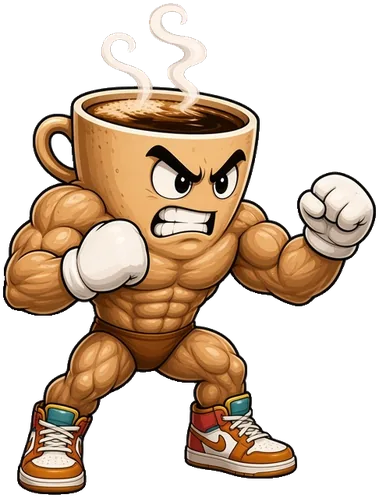
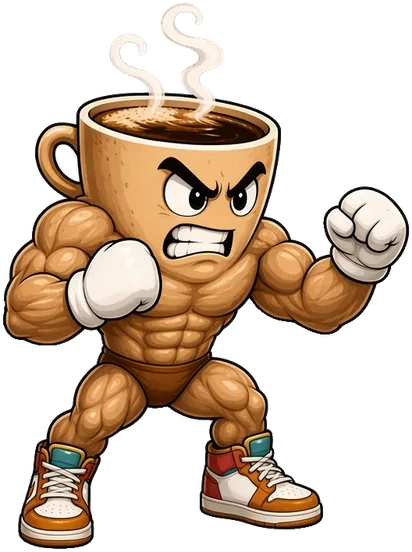
Add 6 new fighters (Flushalot, Sigma Pigeon, Rizz Frog, Spud Swole, Sir Snoozles, Sobbing Onion), 14-rung ladder, coin unlocks, speech bubbles; remove sneaker marks

diff --git a/game.js b/game.js
@@ -15,13 +15,20 @@ const FIGHTERS={
  cactus:{name:'Disco Cactus',title:'Spiky counter-puncher',pre:'Cact',suf:'isco',h:310,hp:1000,spd:390,pow:1,wt:1,jump:1200,col:'#3fcf5a',ai:'turtle',sp:{name:'NEEDLE DISCO',type:'aura'},lines:['stay prickly','disco never died','5, 6, 7, STAB']},
  banana:{name:'Banana Bandit',title:'Slippery speedster',pre:'Bana',suf:'ndit',h:300,hp:900,spd:500,pow:.95,wt:.85,jump:1300,col:'#ffe03d',ai:'aggro',sp:{name:'PEEL OUT',type:'teleport'},lines:['split happens','your wallet? mine','a-peeling, right?']},
  broc:{name:'Broccoli Beefcake',title:'Leafy tank',pre:'Brocco',suf:'beef',h:320,hp:1200,spd:340,pow:1.2,wt:1.3,jump:1050,col:'#6ae04a',ai:'turtle',sp:{name:'VITAMIN HAYMAKER',type:'haymaker'},lines:['eat your greens','never skip leg day','fiber of my being']},
+ toilet:{name:'Sir Flushalot',title:'Armored opera tank',pre:'Flush',suf:'alot',h:320,hp:1250,spd:320,pow:1.2,wt:1.45,jump:1000,col:'#9fe6ff',ai:'tank',armorH:1,sp:{name:'ROYAL FLUSH',type:'flush'},lines:['I sing, you SINK','flushed with pride','that was a royal flush','skibbity... no. ROYALTY.']},
+ pigeon:{name:'Sigma Pigeon',title:'Speedster',pre:'Pidge',suf:'ma',h:290,hp:850,spd:570,pow:.9,wt:.8,jump:1350,col:'#9a7cff',ai:'speed',sp:{name:'SIGMA GRINDSET',type:'flurry'},lines:['coo. then grind.','no breadcrumbs, no mercy','sigma rule #1: peck first','I wake up at 3am to coo']},
+ frog:{name:'Rizz Frog',title:'Lounge-singer zoner',pre:'Rizz',suf:'ribbit',h:300,hp:950,spd:380,pow:.95,wt:.95,jump:1300,col:'#7dff5a',ai:'zoner',proj:'note',sp:{name:'SMOOTH OPERATOR',type:'volley',proj:'heart',stun:1},lines:['you just got RIZZED','ribbit, baby','this next one goes out to your HP bar','unspoken rizz, spoken KO']},
+ potato:{name:'Spud Swole',title:'Grappler (command grab)',pre:'Spud',suf:'swole',h:310,hp:1150,spd:350,pow:1.15,wt:1.3,jump:1050,col:'#d9a35a',ai:'grappler',grab:1,sp:{name:'MASHED SUPLEX',type:'suplex'},lines:['you got MASHED','carbs are a lifestyle','do you even starch, bro?','tater? I hardly know her']},
+ cat:{name:'Sir Snoozles',title:'Bathtub trickster',pre:'Snooze',suf:'zles',h:270,hp:950,spd:430,pow:1,wt:1.05,jump:1150,col:'#ff9d3d',ai:'trick',sp:{name:'BUBBLE CLONES',type:'clone'},lines:['5 more minutes...','splish splash, you crash','nap time is KO time','I was asleep for that']},
+ onion:{name:'Sobbing Onion',title:'Crybaby rushdown',pre:'Sob',suf:'nion',h:285,hp:950,spd:480,pow:1.05,wt:.9,jump:1250,col:'#c9409a',ai:'aggro',sp:{name:'TEAR TSUNAMI',type:'tsunami'},lines:["I'm not crying, YOU'RE crying",'layers of PAIN','*sniff* that was for my mom','emotional damage, literally']},
  boss:{name:'The Omega Brainrot',title:'Final boss',pre:'Brain',suf:'rot',h:380,hp:1500,spd:370,pow:1.25,wt:1.6,jump:1080,col:'#c13bff',ai:'boss',proj:'orb',sp:{name:'BRAIN BLAST',type:'beam'},lines:['I AM THE FEED','scroll forever','your attention is mine'],boss:1},
 };
 const IDS=Object.keys(FIGHTERS);IDS.forEach(k=>FIGHTERS[k].id=k);
 const START=['shark','cup','duck'];
-const LADDER=['banana','duck','cactus','toaster','cup','broc','shark','boss'];
-const DIFF=[.12,.24,.34,.44,.54,.64,.76,.9];
-const RUNG_TAG=['Warm-up','Middle management','Prickly','Carb loaded','Pre-workout','Leg day','Apex snack','FINAL BOSS'];
+const LADDER=['banana','pigeon','duck','onion','cactus','frog','toaster','cat','cup','potato','broc','toilet','shark','boss'];
+const LAST=LADDER.length-1,DIFF=LADDER.map((_,i)=>+(.1+.82*i/LAST).toFixed(2));
+const RUNG_TAG=['Warm-up','Grindset','Middle management','Emotional damage','Prickly','Rizz check','Carb loaded','Nap trap','Pre-workout','Starch slam','Leg day','Throne room','Apex snack','FINAL BOSS'];
+const UNLOCK_COST=250;
 
 // ---------- ASSETS ----------
 const SPR={},META={},SIL={};let BG=null,assetsReady=false;
@@ -56,6 +63,12 @@ const SFX={
  coin(){tone('square',988,988,.06,.12);tone('square',1319,1319,.12,.12,T()+.06)},
  bell(){[0,.18,.36].forEach(d=>tone('triangle',1046,1046,.4,.3,T()+d))},
  fanfare(){const t=T();[[523,0],[659,.12],[784,.24],[1047,.36],[784,.5],[1047,.62]].forEach(([f,d])=>{tone('square',f,f,.2,.13,t+d,2500);tone('triangle',f/2,f/2,.3,.2,t+d)})},
+ flush(){noise(1.1,.8,300,0,'bandpass',1,2600);tone('sine',220,55,1,.45);setTimeout(()=>noise(.5,.6,1200,0,'highpass'),700)},
+ coo(){tone('sine',620,480,.14,.35);tone('sine',480,640,.18,.35,T()+.16);tone('sine',640,470,.2,.3,T()+.36)},
+ croon(){[392,494,587,784,740,784].forEach((f,i)=>{tone('triangle',f,f*1.01,.28,.25,T()+i*.11);tone('sine',f*2,f*2,.2,.06,T()+i*.11)})},
+ grunt(){tone('sawtooth',150,85,.3,.45,0,800);noise(.2,.5,500,0,'lowpass');tone('sawtooth',120,70,.35,.4,T()+.35,700)},
+ meow(){tone('triangle',700,1150,.14,.3);tone('triangle',1150,480,.35,.3,T()+.14);noise(.4,.2,3000,T()+.1,'highpass')},
+ sob(){[0,.24,.48].forEach(d=>tone('sawtooth',540,360,.2,.16,T()+d,1500));noise(.8,.3,2000,T()+.2,'bandpass',2,600)},
  womp(){const t=T();[294,277,262,233].forEach((f,i)=>tone('sawtooth',f,i==3?180:f*.97,i==3?.8:.32,.2,t+i*.34,900))},
 };
 function say(txt){if(S.muted||!window.speechSynthesis)return;try{speechSynthesis.cancel();const u=new SpeechSynthesisUtterance(txt);u.pitch=.6;u.rate=1.05;speechSynthesis.speak(u)}catch(e){}}
@@ -69,6 +82,7 @@ function musicTick(){if(!MUS.on||!AC)return;while(MUS.t0+MUS.n*MUS.spb/2<AC.curr
 const SAVE_KEY='brainrot_brawler_v1';
 function freshSave(){return{v:1,coins:50,unlocked:[...START],rung:0,pick:'shark',donor:null,fusions:[],bestCombo:0,wins:0,muted:false,prem:false}}
 let S=(()=>{try{const d=JSON.parse(localStorage.getItem(SAVE_KEY));if(d&&d.v===1)return Object.assign(freshSave(),d)}catch(e){}return freshSave()})();
+if(!S.lv){if(S.rung>0){const OLD=['banana','duck','cactus','toaster','cup','broc','shark','boss'];S.rung=S.rung>=8?LADDER.length:LADDER.indexOf(OLD[S.rung])}S.lv=2;try{localStorage.setItem(SAVE_KEY,JSON.stringify(S))}catch(e){}}
 function save(){try{localStorage.setItem(SAVE_KEY,JSON.stringify(S))}catch(e){}}
 
 // ---------- STUBS ----------
@@ -85,24 +99,24 @@ function setCoins(){$$('.coins').forEach(e=>e.textContent=S.coins)}
 function screen(id){$$('.scr').forEach(s=>s.classList.toggle('on',s.id===id));if(id==='home')renderHome();if(id==='select')renderSelect()}
 const fname=(body,donor)=>donor&&donor!==body?FIGHTERS[body].pre+FIGHTERS[donor].suf:FIGHTERS[body].name;
 function renderHome(){setCoins();$('#hero').innerHTML=['cup','shark','duck'].map(i=>`<img src="${imgSrc(i)}" alt="">`).join('');
- $('#ladderTxt').textContent=S.rung>=8?'CLEARED!':`rung ${S.rung+1}/8`;
- $('#ladder').innerHTML=LADDER.map((id,i)=>`<div class="rung ${i<S.rung?'done':i===Math.min(S.rung,7)?'cur':''} ${i>S.rung?'lock':''}"><div class="pic"><img src="${imgSrc(id)}" alt=""></div>${i>S.rung?'???':FIGHTERS[id].name}<br><span style="color:#d9c6ff">${RUNG_TAG[i]}</span></div>`).join('');
+ $('#ladderTxt').textContent=S.rung>LAST?'CLEARED!':`rung ${S.rung+1}/${LADDER.length}`;
+ $('#ladder').innerHTML=LADDER.map((id,i)=>`<div class="rung ${i<S.rung?'done':i===Math.min(S.rung,LAST)?'cur':''} ${i>S.rung?'lock':''}"><div class="pic"><img src="${imgSrc(id)}" alt=""></div>${i>S.rung?'???':FIGHTERS[id].name}<br><span style="color:#d9c6ff">${RUNG_TAG[i]}</span></div>`).join('');
  $('#muteBtn').textContent=S.muted?'SOUND OFF':'SOUND ON'}
 function owned(id){return S.unlocked.includes(id)||(id==='boss'&&S.prem)}
 function renderSelect(){setCoins();if(!owned(S.pick))S.pick='shark';const F=FIGHTERS[S.pick],donor=S.donor&&owned(S.donor)?S.donor:null,sp=donor?FIGHTERS[donor].sp:F.sp;
  const st=(k,v,m)=>`<div class="stat"><span>${k}</span><div><i style="width:${clamp(v/m*100,8,100)}%"></i></div></div>`;
- $('#info').innerHTML=`<img src="${imgSrc(S.pick)}" alt=""><div class="t">${fname(S.pick,donor)}<small>${F.title}${donor?' + '+FIGHTERS[donor].name+' special':''}</small>${st('HP',F.hp,1500)}${st('SPEED',F.spd,500)}${st('POWER',F.pow,1.3)}${st('WEIGHT',F.wt,1.6)}<small style="color:#ff3df2">SPECIAL: ${sp.name}</small>${F.proj?'<small style="color:#ffd23d">HEAVY fires a projectile</small>':''}</div>`;
- const r=Math.min(S.rung,7),opp=LADDER[r];$('#goBtn').textContent=`FIGHT RUNG ${r+1}: VS ${FIGHTERS[opp].name.toUpperCase()}`;
- $('#grid').innerHTML=IDS.map(id=>{const o=owned(id);return`<div class="fc ${S.pick===id?'sel':''} ${o?'':'lock'}" data-id="${id}"><img src="${imgSrc(id)}" alt=""><div class="nm">${o?FIGHTERS[id].name:id==='boss'?'PREMIUM $1.99':'BEAT TO UNLOCK'}</div>${id==='boss'&&!o?'<span class="tag">PREMIUM</span>':''}</div>`}).join('');
+ $('#info').innerHTML=`<img src="${imgSrc(S.pick)}" alt=""><div class="t">${fname(S.pick,donor)}<small>${F.title}${donor?' + '+FIGHTERS[donor].name+' special':''}</small>${st('HP',F.hp,1500)}${st('SPEED',F.spd,500)}${st('POWER',F.pow,1.3)}${st('WEIGHT',F.wt,1.6)}<small style="color:#ff3df2">SPECIAL: ${sp.name}</small>${F.proj?'<small style="color:#ffd23d">HEAVY fires a projectile</small>':''}${F.grab?'<small style="color:#ffd23d">HEAVY is a command GRAB (unblockable)</small>':''}${F.armorH?'<small style="color:#ffd23d">HEAVY has super armor</small>':''}</div>`;
+ const r=Math.min(S.rung,LAST),opp=LADDER[r];$('#goBtn').textContent=`FIGHT RUNG ${r+1}: VS ${FIGHTERS[opp].name.toUpperCase()}`;
+ $('#grid').innerHTML=IDS.map(id=>{const o=owned(id);return`<div class="fc ${S.pick===id?'sel':''} ${o?'':'lock'}" data-id="${id}"><img src="${imgSrc(id)}" alt=""><div class="nm">${o?FIGHTERS[id].name:id==='boss'?'PREMIUM $1.99':`BEAT IT or ${UNLOCK_COST}c`}</div>${id==='boss'&&!o?'<span class="tag">PREMIUM</span>':''}</div>`}).join('');
  const cost=60;$('#fuseHint').textContent=S.unlocked.length<2?'Unlock more fighters to fuse.':`Pick a donor: your fighter keeps its body and gets the donor's special. ${cost} coins each (first one free). Tap again to remove.`;
  $('#donors').innerHTML=IDS.filter(id=>owned(id)&&id!==S.pick).map(id=>`<div class="fc ${S.donor===id?'sel':''}" data-donor="${id}"><img src="${imgSrc(S.pick)}" alt=""><div class="badge"><img src="${imgSrc(id)}" alt=""></div><div class="nm">${fname(S.pick,id)}<br><span style="color:#ff3df2;font-size:9px">${FIGHTERS[id].sp.name}</span></div></div>`).join('')}
-$('#grid').addEventListener('click',e=>{const c=e.target.closest('.fc');if(!c)return;audio();SFX.click();const id=c.dataset.id;if(owned(id)){if(S.pick!==id){S.pick=id;S.donor=null}save();renderSelect()}else if(id==='boss')buyPremium();else toast('Beat '+FIGHTERS[id].name+' on the ladder to unlock')});
+$('#grid').addEventListener('click',e=>{const c=e.target.closest('.fc');if(!c)return;audio();SFX.click();const id=c.dataset.id;if(owned(id)){if(S.pick!==id){S.pick=id;S.donor=null}save();renderSelect()}else if(id==='boss')buyPremium();else{const ri=LADDER.indexOf(id);modal(`<h1>LOCKED</h1><img class="pf" src="${imgSrc(id)}" alt=""><p><b>${FIGHTERS[id].name}</b> - ${FIGHTERS[id].title}<br>Special: ${FIGHTERS[id].sp.name}</p><p>Beat them on ladder rung ${ri+1}, or unlock now.</p><div class="row"><button class="btn gold" id="unlockBtn" ${S.coins<UNLOCK_COST?'disabled':''}>UNLOCK - ${UNLOCK_COST} COINS</button><button class="btn grey" onclick="closeModal()">LATER</button></div>${S.coins<UNLOCK_COST?`<p style="font-size:12px">You have ${S.coins} coins. Win fights to earn more.</p>`:''}`);$('#unlockBtn').onclick=()=>{if(S.coins<UNLOCK_COST)return;S.coins-=UNLOCK_COST;S.unlocked.push(id);S.pick=id;S.donor=null;save();closeModal();SFX.fanfare();toast(FIGHTERS[id].name+' unlocked!');renderSelect()}}});
 $('#donors').addEventListener('click',e=>{const c=e.target.closest('.fc');if(!c)return;audio();const d=c.dataset.donor,key=S.pick+'+'+d;if(S.donor===d){S.donor=null;save();renderSelect();return}
  if(!S.fusions.includes(key)){const cost=S.fusions.length?60:0;if(S.coins<cost){toast(`Need ${cost} coins. Win fights!`);return}S.coins-=cost;S.fusions.push(key);SFX.fanfare();toast('FUSED: '+fname(S.pick,d)+'!')}else SFX.click();S.donor=d;save();renderSelect()});
 function buyPremium(){purchase('premium_omega_brainrot',ok=>{if(!ok)return;S.prem=true;save();renderSelect();toast('The Omega Brainrot is now playable!')})}
 $('#playBtn').onclick=()=>{audio();SFX.click();screen('select')};
 $('#backBtn').onclick=()=>{SFX.click();screen('home')};
-$('#goBtn').onclick=()=>{audio();startMatch(Math.min(S.rung,7))};
+$('#goBtn').onclick=()=>{audio();startMatch(Math.min(S.rung,LAST))};
 $('#shopBtn').onclick=()=>{audio();modal(`<h1>PREMIUM FIGHTER</h1><img class="pf" src="${imgSrc('boss')}" alt=""><p>Play as <b>The Omega Brainrot</b> right now: 1500 HP, projectiles, BRAIN BLAST beam. (Also unlocks free when you clear the ladder.)</p><div class="row"><button class="btn gold" id="buyNow">${S.prem?'OWNED':'UNLOCK - $1.99'}</button><button class="btn grey" onclick="closeModal()">LATER</button></div>`);$('#buyNow').onclick=()=>{if(!S.prem)buyPremium()}};
 $('#muteBtn').onclick=()=>{S.muted=!S.muted;save();audio();if(master)master.gain.value=S.muted?0:.6;renderHome()};
 $('#shareHome').onclick=()=>shareCard();
@@ -137,6 +151,7 @@ const MV={
  L3:{st:.1,ac:.1,rc:.3,dmg:60,kx:640,ky:560,hs:.5,r:[10,185],yb:[60,250],lunge:300,launch:1,hstop:.11,sfx:'heavy',shake:.35,txt:'SMACK!'},
  H:{st:.17,ac:.12,rc:.36,dmg:85,kx:300,ky:1250,hs:.6,r:[20,195],yb:[30,270],lunge:320,launch:1,charge:1,hstop:.13,sfx:'heavy',shake:.5,txt:'LAUNCH!'},
  HP:{st:.16,ac:.05,rc:.34,proj:1,charge:1},
+ GR:{st:.1,ac:.09,rc:.45,grab:1,dmg:125,kx:700,ky:1000,hs:.6,r:[0,135],yb:[0,280],lunge:150,launch:1,hstop:.22,shake:.8,sfx:'heavy',txt:'SUPLEX!'},
  AL:{st:.05,ac:.2,rc:.12,dmg:40,kx:220,ky:420,hs:.36,r:[0,160],yb:[-50,160],air:1,hstop:.05,sfx:'light',shake:.12},
  AH:{st:.12,ac:.16,rc:.22,dmg:70,kx:180,ky:-1500,hs:.5,r:[-30,165],yb:[-80,150],air:1,spike:1,launch:1,hstop:.12,sfx:'heavy',shake:.45,txt:'METEOR!'},
 };
@@ -179,28 +194,40 @@ function resolveHit(a,d,h){if(d.inv>0||d.ko)return false;const dirAD=sgn(d.x-h.f
 function parry(d,a){a.st='parried';a.t=0;a.mv=null;a.charging=false;a.vx=-a.dir*250;d.st='idle';d.meter=Math.min(100,d.meter+25);slowmo(.25,.45);hitstop(.1);shake(.3);J.flash=.35;J.flashCol='#2ec5ff';SFX.parry();const hy=-(d.y+d.F.h*.7);popText(d.x,hy-40,'PARRY!','#2ec5ff',56,{vy:-60,life:1.1});ring(d.x+d.dir*40,hy+60,'#fff',220,14);burst(d.x+d.dir*40,hy+60,24,['#2ec5ff','#fff'],{spd:800,g:0,k:'spark'})}
 function hitCheck(a,d){if(a.st!=='attack'||!a.mv||a.charging)return;const m=a.mv,t=a.mvT;if(t<m.st||t>=m.st+m.ac||m.proj)return;const hb=fbox(a,m.r[0],m.r[1],m.yb[0],m.yb[1]);
  for(const p of G.projs)if(p.owner!==a&&!p.dead&&p.x>hb.x0-p.r&&p.x<hb.x1+p.r&&p.y>hb.y0-p.r&&p.y<hb.y1+p.r){p.dead=1;burst(p.x,-p.y,16,['#fff','#ffd23d'],{spd:600,k:'spark',g:0});popText(p.x,-p.y-40,'SWAT!','#ffd23d',30);SFX.block();hitstop(.05)}
- if(!a.hit.has('o')&&overlap(hb,hurtBox(d))){a.hit.add('o');resolveHit(a,d,hitInfo(a,m))}}
+ if(!a.hit.has('o')&&overlap(hb,hurtBox(d))){if(m.grab&&(isAir(d)||d.st==='down'))return;a.hit.add('o');const h=hitInfo(a,m);if(m.grab){h.unblockable=1;h.fromX=a.x+a.dir*500;d.x=clamp(a.x+a.dir*30,WL,WR);SFX.grunt();burst(d.x,-(d.F.h*.5),20,['#d9a35a','#fff'],{spd:600,k:'star'})}resolveHit(a,d,h)}}
 // ---------- PROJECTILES ----------
-function spawnProj(f,o){const k=o.kind||f.F.proj||'case',c=f.chg/.85,P={case:{vx:820,vy:260,g:900,r:34,dmg:52},toast:{vx:640,vy:640,g:1500,r:30,dmg:50},orb:{vx:620,vy:0,g:0,r:46,dmg:64}}[k];
- G.projs.push({kind:k,owner:f,x:f.x+f.dir*80*f.sc,y:f.y+f.F.h*.55,vx:f.dir*(o.vx||P.vx)*(1+c*.5),vy:o.vy!=null?o.vy:P.vy,g:P.g,r:P.r*(1+c*.3),dmg:(o.dmg||P.dmg)*(1+c*.8),ky:o.ky||0,rot:0,life:0});SFX.proj()}
-function updProjs(dt){for(const p of G.projs){p.life+=dt;p.x+=p.vx*dt;p.y+=p.vy*dt;p.vy-=p.g*dt;p.rot+=dt*10*sgn(p.vx);const t=p.owner===G.p1?G.p2:G.p1;
+function spawnProj(f,o){const k=o.kind||f.F.proj||'case',c=f.chg/.85,P={case:{vx:820,vy:260,g:900,r:34,dmg:52},toast:{vx:640,vy:640,g:1500,r:30,dmg:50},orb:{vx:620,vy:0,g:0,r:46,dmg:64},note:{vx:720,vy:0,g:0,r:28,dmg:44},heart:{vx:620,vy:0,g:0,r:32,dmg:34},bubble:{vx:520,vy:0,g:0,r:34,dmg:30}}[k];
+ G.projs.push({kind:k,owner:f,x:f.x+f.dir*80*f.sc,y:f.y+f.F.h*.55,vx:f.dir*(o.vx||P.vx)*(1+c*.5),vy:o.vy!=null?o.vy:P.vy,g:P.g,r:P.r*(1+c*.3),dmg:(o.dmg||P.dmg)*(1+c*.8),ky:o.ky||0,rot:0,life:0,stun:o.stun||0});SFX.proj()}
+function updProjs(dt){for(const p of G.projs){p.life+=dt;p.x+=p.vx*dt;p.y+=p.vy*dt;p.vy-=p.g*dt;if(p.kind==='note'||p.kind==='heart')p.y+=Math.cos(p.life*14)*200*dt;p.rot+=dt*10*sgn(p.vx);const t=p.owner===G.p1?G.p2:G.p1;
  if(p.y<p.r*.4){p.dead=1;burst(p.x,-10,10,['#fff8','#b88'],{spd:300,up:200})}
- if(p.x<0||p.x>1600||p.life>4)p.dead=1;
- if(!p.dead){const hb=hurtBox(t);if(p.x+p.r>hb.x0&&p.x-p.r<hb.x1&&p.y+p.r>hb.y0&&p.y-p.r<hb.y1){p.dead=1;resolveHit(p.owner,t,{dmg:p.dmg,kx:260,ky:p.ky,launch:p.ky>0,hs:.4,hstop:.06,shake:.2,sfx:'light',fromX:p.x-p.vx*.05})}}}
+ if(p.x<-300||p.x>1900||p.life>4)p.dead=1;
+ if(!p.dead){const hb=hurtBox(t);if(p.x+p.r>hb.x0&&p.x-p.r<hb.x1&&p.y+p.r>hb.y0&&p.y-p.r<hb.y1){p.dead=1;const ok=resolveHit(p.owner,t,{dmg:p.dmg,kx:260,ky:p.ky,launch:p.ky>0,hs:.4,hstop:.06,shake:.2,sfx:'light',fromX:p.x-p.vx*.05});if(ok&&p.stun&&t.st==='hitstun'){t.st='parried';t.t=.2;t.vx=0;popText(t.x,-(t.y+t.F.h+30),'CHARMED!','#ff6ad5',40);burst(t.x,-(t.y+t.F.h*.7),16,['#ff6ad5','#fff'],{spd:400,g:-300,k:'circle',size:12})}}}}
  for(const a of G.projs)for(const b of G.projs)if(a!==b&&!a.dead&&!b.dead&&a.owner!==b.owner&&Math.hypot(a.x-b.x,a.y-b.y)<a.r+b.r){a.dead=b.dead=1;burst((a.x+b.x)/2,-(a.y+b.y)/2,20,['#fff','#ff3df2'],{spd:700,k:'spark',g:0});SFX.block()}
  G.projs=G.projs.filter(p=>!p.dead)}
 // ---------- SPECIALS ----------
-function startSpecial(f,o){f.meter=0;f.st='special';f.t=0;f.spS={};f.mv=null;f.rot=0;G.freeze=.65;G.superF=f;f.inv=.1;SFX.super();shake(.3);J.flash=.4;J.flashCol=f.F.col;if(f.sp.type==='quake')f.vy=900}
+function startSpecial(f,o){f.meter=0;f.st='special';f.t=0;f.spS={};f.mv=null;f.rot=0;G.freeze=.65;G.superF=f;f.inv=.1;SFX.super();shake(.3);J.flash=.4;J.flashCol=f.F.col;if(f.sp.type==='quake')f.vy=900;const ss={flush:'flush',flurry:'coo',suplex:'grunt',clone:'meow',tsunami:'sob'}[f.sp.type]||(f.sp.stun?'croon':null);if(ss)setTimeout(()=>SFX[ss](),250)}
 function areaHit(f,o,key,box,h,interval){const last=f.spS['h'+key];if(last!=null&&G.time-last<interval)return false;if(!overlap(box,hurtBox(o)))return false;f.spS['h'+key]=G.time;h.fromX=h.fromX!=null?h.fromX:f.x;return resolveHit(f,o,h)}
 function updSpecial(f,o,dt){const t=f.t,s=f.spS,A=f.F.pow,ty=f.sp.type;let end=1;
  if(ty==='rush'){end=.9;if(t<.62){f.vx=f.dir*1350;f.rot+=dt*30;if(areaHit(f,o,'r',fbox(f,-70,120,0,f.F.h/f.sc),{dmg:26,kx:300,ky:250,hs:.3,hstop:.04,shake:.15,sfx:'light'},.085))o.vx=f.vx*.95}else{f.vx*=.9;f.rot=0;if(!s.fin){s.fin=1;s.h0=G.time}areaHit(f,o,'rf',fbox(f,-40,190,0,300),{dmg:90,kx:500,ky:1350,launch:1,hs:.6,hstop:.18,shake:.6,sfx:'heavy',txt:'TORNADO!'},99)}}
  else if(ty==='quake'){end=1.05;if(!s.slam&&t>.12&&f.y<=0){s.slam=G.time;SFX.boom();shake(.9);ring(f.x,0,'#ffd23d',260,20)}if(s.slam)for(let i=0;i<3;i++){const gt=G.time-s.slam-i*.1;if(gt>0&&gt<.3){const gx=f.x+f.dir*(170+i*170);if(!s['g'+i]){s['g'+i]=1;burst(gx,0,26,['#6b3b1c','#c98a4a','#fff'],{ang:-Math.PI/2,spread:.4,spd:1300,size:14});SFX.heavy()}areaHit(f,o,'g'+i,{x0:gx-80,x1:gx+80,y0:0,y1:340},{dmg:80,kx:150,ky:1350,launch:1,hs:.6,hstop:.12,shake:.5,sfx:'heavy',txt:'ERUPTION!',fromX:f.x},99)}}}
- else if(ty==='volley'){end=.75;for(let i=0;i<5;i++)if(t>.04+i*.1&&!s['v'+i]){s['v'+i]=1;f.sq=-.2;spawnProj(f,{kind:f.sp.proj,vx:850+i*60,vy:i%2?420:200,dmg:44,ky:i===4?900:0})}}
+ else if(ty==='volley'){end=.75;for(let i=0;i<5;i++)if(t>.04+i*.1&&!s['v'+i]){s['v'+i]=1;f.sq=-.2;spawnProj(f,f.sp.stun?{kind:f.sp.proj,vx:600+i*40,vy:0,dmg:34,stun:i===4}:{kind:f.sp.proj,vx:850+i*60,vy:i%2?420:200,dmg:44,ky:i===4?900:0})}}
  else if(ty==='aura'){end=1.15;if(t<.9){f.rot+=dt*24;o.vx+=sgn(f.x-o.x)*900*dt;if(Math.random()<.6)burst(f.x,-(f.y+f.F.h*.5),2,['#3fcf5a','#e8ffcf','#ff3df2','#ffd23d'],{spd:900,g:0,k:'spark'});areaHit(f,o,'a',{x0:f.x-230,x1:f.x+230,y0:f.y-20,y1:f.y+f.F.h*1.1},{dmg:18,kx:60,ky:0,hs:.25,hstop:.03,shake:.1,sfx:'light'},.1)}else{f.rot=0;if(!s.b){s.b=1;ring(f.x,-(f.F.h*.5),'#ff3df2',320,24);SFX.boom()}areaHit(f,o,'ab',{x0:f.x-260,x1:f.x+260,y0:0,y1:f.F.h*1.2},{dmg:80,kx:620,ky:1150,launch:1,hs:.6,hstop:.16,shake:.6,sfx:'heavy',txt:'DISCO INFERNO!'},99)}}
  else if(ty==='teleport'){end=.85;if(!s.tp&&t>.12){s.tp=1;burst(f.x,-(f.F.h*.5),24,['#fff','#ffe03d','#888'],{spd:500,g:-200,size:18,k:'circle'});const side=sgn(o.x-f.x);f.x=clamp(o.x+side*120*f.sc,WL,WR);f.dir=sgn(o.x-f.x);burst(f.x,-(f.F.h*.5),24,['#fff','#ffe03d'],{spd:500,g:-200,size:18,k:'circle'});SFX.dash()}
   if(s.tp)for(let i=0;i<3;i++)if(t>.22+i*.12)areaHit(f,o,'t'+i,fbox(f,-20,200,0,280),i<2?{dmg:42,kx:80,ky:0,hs:.4,hstop:.07,shake:.2,sfx:'light',txt:'SLASH'}:{dmg:70,kx:650,ky:800,launch:1,hs:.6,hstop:.16,shake:.5,sfx:'heavy',txt:'SLIPPED!'},99)}
  else if(ty==='haymaker'){end=.95;if(t<.4){f.armor=1;f.vx=0;if(Math.random()<.5)burst(f.x+rand(-60,60),-(rand(0,f.F.h)),1,['#b6ff2e','#fff'],{spd:200,g:-800,k:'spark'})}else if(t<.66){f.armor=0;f.vx=f.dir*1150;areaHit(f,o,'hm',fbox(f,0,200,0,280),{dmg:230,kx:1500,ky:520,launch:1,hs:.7,hstop:.26,shake:1.1,sfx:'heavy',txt:'VITAMIN K.O.!'},99)}else{f.armor=0;f.vx*=.85}}
  else if(ty==='beam'){end=1.2;if(t<.3){f.vx=0;if(Math.random()<.7)burst(f.x+f.dir*90,-120,2,['#ff3df2','#fff'],{spd:300,g:0,k:'spark'})}else if(t<1.05){shake(.06);areaHit(f,o,'bm',{x0:f.dir>0?f.x+40:f.x-1500,x1:f.dir>0?f.x+1500:f.x-40,y0:0,y1:150},{dmg:22,kx:220,ky:0,hs:.25,hstop:.03,shake:.1,sfx:'light'},.08)}}
+ else if(ty==='flush'){end=1.3;if(t<.6){f.armor=1;f.vx=0;const dx=f.x-o.x;if(Math.abs(dx)<750&&!isAir(o))o.vx+=sgn(dx)*1500*dt;for(let i=0;i<3;i++){const a=G.time*9+i*2.1,r=120+60*Math.sin(G.time*3+i);burst(f.x+Math.cos(a)*r,-(40+Math.abs(Math.sin(a))*180),1,['#9fe6ff','#fff','#4aa3ff'],{spd:120,g:-200,k:'circle',size:10,life:.5})}areaHit(f,o,'fv',{x0:f.x-240,x1:f.x+240,y0:0,y1:320},{dmg:14,kx:30,ky:0,hs:.3,hstop:.02,shake:.08,sfx:'light'},.12)}
+  else{f.armor=0;if(!s.gy){s.gy=1;SFX.boom();shake(1);ring(f.x,-30,'#9fe6ff',320,24);burst(f.x,0,60,['#9fe6ff','#fff','#4aa3ff'],{ang:-Math.PI/2,spread:.5,spd:1700,size:14,k:'circle'})}areaHit(f,o,'fg',{x0:f.x-290,x1:f.x+290,y0:0,y1:520},{dmg:150,kx:300,ky:1600,launch:1,hs:.7,hstop:.2,shake:.8,sfx:'heavy',txt:'ROYAL FLUSH!'},99)}}
+ else if(ty==='flurry'){end=1.25;const idx=Math.floor(t/.12);if(idx<6&&!s['f'+idx]){s['f'+idx]=1;const side=idx%2?1:-1;f.x=clamp(o.x+side*150*f.sc,WL,WR);f.dir=sgn(o.x-f.x);f.y=Math.max(0,o.y-20);f.vy=0;f.vx=f.dir*150;f.trail.push({x:f.x-f.dir*80,y:f.y,pose:'attack',dir:f.dir,rot:0,a:.6});burst(f.x,-(f.y+f.F.h*.5),10,['#9a7cff','#ccc','#fff'],{spd:500,k:'spark'});SFX.dash();
+   areaHit(f,o,'f'+idx,{x0:o.x-220,x1:o.x+220,y0:-50,y1:3000},{dmg:22,kx:40,ky:isAir(o)?380:120,hs:.4,hstop:.04,shake:.15,sfx:'light',fromX:f.x},99)}
+  if(t>.8&&!s.ff){s.ff=1;f.x=clamp(o.x-sgn(o.x-f.x)*130*f.sc,WL,WR);f.dir=sgn(o.x-f.x);areaHit(f,o,'ff',{x0:o.x-250,x1:o.x+250,y0:-50,y1:3000},{dmg:95,kx:900,ky:1000,launch:1,hs:.7,hstop:.2,shake:.7,sfx:'heavy',txt:'SIGMA!',fromX:f.x},99)}}
+ else if(ty==='suplex'){end=s.miss?.7:1.5;if(!s.g&&!s.miss){if(t<.4){f.vx=f.dir*1250;if(Math.random()<.5)burst(f.x-f.dir*60,-20,2,['#fff8'],{spd:200,g:0,k:'circle',size:14});if(overlap(fbox(f,0,170,0,280),hurtBox(o))&&o.st!=='down'&&!o.ko){s.g=t;f.vx=0;f.vy=1400;SFX.grunt();popText(o.x,-(o.y+o.F.h+40),'GRABBED!','#ffd23d',40)}}else{s.miss=1;f.vx*=.3}}
+  if(s.g&&!s.slam){o.x=clamp(f.x+f.dir*30,WL,WR);o.y=f.y+f.F.h*.75;o.vx=o.vy=0;o.st='hitstun';o.t=0;o.hs=1;o.inv=0;f.rot=-f.dir*Math.min(3.1,(t-s.g)*7);if(t-s.g>.2&&f.y<=0){s.slam=1;f.rot=0;o.y=0;o.x=clamp(f.x-f.dir*90,WL,WR);o.st='idle';SFX.boom();shake(1.2);ring(o.x,-20,'#d9a35a',300,24);burst(o.x,0,40,['#d9a35a','#fff3c4','#fff'],{ang:-Math.PI/2,spread:1.2,spd:1200,size:14,k:'star'});resolveHit(f,o,{dmg:230,kx:500,ky:900,launch:1,hs:.8,hstop:.3,shake:1,sfx:'heavy',txt:'MASHED!',unblockable:1,fromX:f.x})}}}
+ else if(ty==='clone'){end=1.15;if(!s.c&&t>.08){s.c=1;for(const side of [-1,1]){const x=clamp(o.x+side*560,WL-200,WR+200);G.projs.push({kind:'clone',owner:f,x,y:f.F.h*.5,vx:-side*1000,vy:0,g:0,r:70,dmg:50,ky:side>0?700:0,rot:0,life:0,stun:0})}burst(f.x,-(f.F.h*.5),30,['#fff','#bfe9ff'],{spd:500,g:-300,k:'circle',size:16})}
+  if(t>.45&&!s.tp){s.tp=1;burst(f.x,-(f.F.h*.5),24,['#fff','#bfe9ff'],{spd:500,g:-200,size:18,k:'circle'});const side=sgn(f.x-o.x)*-1;f.x=clamp(o.x+side*110*f.sc,WL,WR);f.dir=sgn(o.x-f.x);SFX.dash()}
+  if(s.tp&&t>.6)areaHit(f,o,'cs',fbox(f,-20,220,0,300),{dmg:80,kx:700,ky:900,launch:1,hs:.6,hstop:.16,shake:.5,sfx:'heavy',txt:'SPLASH!'},99)}
+ else if(ty==='tsunami'){end=1.25;if(t<.25){f.vx=0;burst(f.x+f.dir*20,-(f.y+f.F.h*.7),3,['#9fe6ff','#fff'],{spd:700,up:300,k:'circle',size:9})}else if(t<1.05){f.vx=f.dir*450;s.wx=f.x+f.dir*(80+(t-.25)*1500);const x0=f.dir>0?s.wx-160:s.wx-60,x1=f.dir>0?s.wx+60:s.wx+160;if(Math.random()<.8)burst(s.wx,-rand(20,200),2,['#9fe6ff','#4aa3ff','#fff'],{spd:400,up:300,k:'circle',size:12});
+   if(areaHit(f,o,'tw',{x0,x1,y0:0,y1:260},{dmg:24,kx:700,ky:150,hs:.35,hstop:.03,shake:.15,sfx:'light'},.1))o.vx=f.dir*1100;if(t>.85)areaHit(f,o,'tb',{x0:Math.min(f.x,s.wx)-60,x1:Math.max(f.x,s.wx)+60,y0:0,y1:320},{dmg:85,kx:700,ky:1250,launch:1,hs:.7,hstop:.18,shake:.6,sfx:'heavy',txt:'TEAR TSUNAMI!'},99)}else{s.wx=null;f.vx*=.8}}
  if(t>=end){f.st=isAir(f)?'air':'idle';f.rot=0;f.armor=0}}
 // ---------- FIGHTER UPDATE ----------
 function updF(f,o,dt){const c=f.ctl,F=f.F;f.t+=dt;f.inv=Math.max(0,f.inv-dt);f.flash=Math.max(0,f.flash-dt*6);f.sqv+=(-300*f.sq-15*f.sqv)*dt;f.sq+=f.sqv*dt;
@@ -209,7 +236,7 @@ function updF(f,o,dt){const c=f.ctl,F=f.F;f.t+=dt;f.inv=Math.max(0,f.inv-dt);f.f
   if(ground)f.dir=sgn(o.x-f.x)||f.dir;
   if(c.specE&&f.meter>=100)startSpecial(f,o);
   else if(c.lightE)startMove(f,ground?'L1':'AL');
-  else if(c.heavyE)startMove(f,ground?(F.proj?'HP':'H'):'AH');
+  else if(c.heavyE)startMove(f,ground?(F.grab?'GR':F.proj?'HP':'H'):'AH');
   else if(ground&&c.blk){f.st='block';f.vx*=Math.exp(-14*dt)}
   else if(ground&&c.dashE){f.st='dash';f.t=0;f.vx=c.dashE*1000*(F.spd/430);f.sq=-.2;SFX.dash();burst(f.x-c.dashE*40,-10,10,['#fff8'],{spd:300,ang:Math.PI+(c.dashE>0?0:Math.PI),spread:.5,g:0,size:14,k:'circle'})}
   else if(ground&&c.jumpE){f.vy=F.jump;f.vx=(c.r-c.l)*F.spd*1.05;f.st='air';f.sq=-.3;SFX.jump();burst(f.x,-5,10,['#fff8'],{spd:250,ang:-Math.PI/2,spread:1.4,g:0,size:12,k:'circle'})}
@@ -217,6 +244,7 @@ function updF(f,o,dt){const c=f.ctl,F=f.F;f.t+=dt;f.inv=Math.max(0,f.inv-dt);f.f
   else{f.vx=lerp(f.vx,(c.r-c.l)*F.spd,Math.min(1,dt*4));f.st='air'}
   if(f.st==='block'&&!c.blk)f.st='idle'}
  else if(!fight&&ground&&['walk','block','dash'].includes(f.st)){f.st='idle';f.vx=0}
+ if(F.armorH&&f.st!=='special')f.armor=(f.st==='attack'&&f.mvN==='H'&&(f.charging||f.mvT<f.mv.st+f.mv.ac))?1:0;
  switch(f.st){
   case 'dash':if(f.t>.2){f.st='idle';f.vx*=.3}break;
   case 'attack':updMove(f,o,dt);break;
@@ -240,7 +268,7 @@ function updF(f,o,dt){const c=f.ctl,F=f.F;f.t+=dt;f.inv=Math.max(0,f.inv-dt);f.f
 function pushApart(a,b){if(isAir(a)&&isAir(b))return;const min=48*(a.sc+b.sc),dx=b.x-a.x;if(Math.abs(dx)<min&&Math.abs(a.y-b.y)<150){const p=(min-Math.abs(dx))/2,s=sgn(dx)||1;a.x=clamp(a.x-s*p,WL,WR);b.x=clamp(b.x+s*p,WL,WR)}}
 function poseOf(f){if(['hitstun','launched','down','parried'].includes(f.st)||f.ko)return'hurt';if(f.st==='attack'&&f.mv&&!f.charging&&f.mvT>=f.mv.st*.6&&f.mvT<f.mv.st+f.mv.ac+f.mv.rc*.6)return'attack';if(f.st==='special'&&f.t>.1)return'attack';return'idle'}
 // ---------- AI ----------
-const PERS={aggro:{dist:130,atk:.85,blk:.25,parry:.12,jump:.2,dash:.4,proj:0,heavy:.25},brawler:{dist:150,atk:.7,blk:.4,parry:.15,jump:.12,dash:.2,proj:0,heavy:.45},zoner:{dist:540,atk:.5,blk:.45,parry:.15,jump:.15,dash:.3,proj:.8,heavy:.25},turtle:{dist:210,atk:.45,blk:.8,parry:.4,jump:.05,dash:.1,proj:0,heavy:.55},boss:{dist:220,atk:.75,blk:.55,parry:.3,jump:.12,dash:.3,proj:.55,heavy:.5}};
+const PERS={aggro:{dist:130,atk:.85,blk:.25,parry:.12,jump:.2,dash:.4,proj:0,heavy:.25},brawler:{dist:150,atk:.7,blk:.4,parry:.15,jump:.12,dash:.2,proj:0,heavy:.45},zoner:{dist:540,atk:.5,blk:.45,parry:.15,jump:.15,dash:.3,proj:.8,heavy:.25},turtle:{dist:210,atk:.45,blk:.8,parry:.4,jump:.05,dash:.1,proj:0,heavy:.55},tank:{dist:180,atk:.6,blk:.5,parry:.15,jump:.03,dash:.1,proj:0,heavy:.6},speed:{dist:120,atk:.85,blk:.3,parry:.2,jump:.35,dash:.75,proj:0,heavy:.2},grappler:{dist:105,atk:.8,blk:.35,parry:.1,jump:.05,dash:.55,proj:0,heavy:.65},trick:{dist:240,atk:.6,blk:.4,parry:.3,jump:.3,dash:.65,proj:0,heavy:.3},boss:{dist:220,atk:.75,blk:.55,parry:.3,jump:.12,dash:.3,proj:.55,heavy:.5}};
 function aiUpdate(f,o){const c=f.ctl,A=f.ai,d=G.diff,P=PERS[f.F.ai]||PERS.brawler,T=G.time;
  c.l=c.r=0;if(G.phase!=='fight'||G.aiOff){c.blk=c.hvy=0;return}
  const dist=Math.abs(o.x-f.x),to=sgn(o.x-f.x);c.blk=A.blkUntil>T?1:0;c.hvy=A.hvyUntil>T?1:0;if(A.moveUntil>T){if(A.moveDir>0)c.r=1;else c.l=1}
@@ -252,7 +280,7 @@ function aiUpdate(f,o){const c=f.ctl,A=f.ai,d=G.diff,P=PERS[f.F.ai]||PERS.brawle
  if(f.st==='attack'&&f.mv&&f.mv.next&&f.hit.size&&Math.random()<.35+.6*d){c.lightE=1;return}
  if(!['idle','walk','air'].includes(f.st))return;
  const hold=s=>{A.hvyUntil=T+s;c.hvy=1;c.heavyE=1};
- if(f.meter>=100&&Math.random()<.35+.5*d&&(dist<360||['volley','beam','teleport'].includes(f.sp.type))){c.specE=1;return}
+ if(f.meter>=100&&Math.random()<.35+.5*d&&(dist<360||['volley','beam','teleport','flurry','clone','tsunami','flush'].includes(f.sp.type))){c.specE=1;return}
  if(o.st==='parried'&&dist<280){hold(.05);return}
  if(isAir(o)&&o.y>100&&dist<230&&Math.random()<.25+.5*d){hold(.05);return}
  if(f.F.proj&&P.proj&&dist>330&&Math.random()<P.proj){hold(rand(.05,.55)*d);return}
@@ -266,18 +294,20 @@ function startMatch(rung,cont){audio();closeModal();$('#modal').dataset.lock='';
  G={rung,diff:DIFF[rung],round:cont?3:1,wins:cont?[1,1]:[0,0],time:0,cam:{x:800,w:1100},projs:[],freeze:0,mode:'fight',stats:{best:0,flawless:false},aiOff:false};
  startRound();musicStart();$('#pad').classList.toggle('on',isTouch);$('#pauseBtn').style.display='block'}
 function startRound(){const d=S.donor&&owned(S.donor)&&S.donor!==S.pick?S.donor:null;G.p1=mkFighter(S.pick,d,0,580);G.p2=mkFighter(LADDER[G.rung],null,1,1020);
- if(G.p2.F.boss&&G.rung===7){G.p2.hp=G.p2.max=Math.round(G.p2.F.hp*1)}G.timer=60;G.phase='intro';G.pt=0;G.s1=G.s2=0;G.projs=[];G.freeze=0;G.superF=null;J.parts=[];J.texts=[];J.slow=1;J.slowT=0;clearEdges(PEND)}
+ if(G.p2.F.boss&&G.rung===LAST){G.p2.hp=G.p2.max=Math.round(G.p2.F.hp*1)}G.timer=60;G.phase='intro';G.pt=0;G.s1=G.s2=G.s3=0;G.bubs=[];G.projs=[];G.freeze=0;G.superF=null;J.parts=[];J.texts=[];J.slow=1;J.slowT=0;clearEdges(PEND)}
 function roundKO(a,d){if(G.phase!=='fight')return;d.ko=true;G.phase='ko';G.koT=0;G.winner=a.side;G.wins[a.side]++;d.st='launched';d.mv=null;d.vy=Math.max(d.vy,950);d.vx=sgn(d.x-a.x)*750;d.wallB=false;d.bounced=false;
  slowmo(.22,1.3);hitstop(.28);shake(1.3);J.flash=.9;J.flashCol='#fff';SFX.boom();popText(W/2,H*.36,'K.O.!',a.side?'#ff3d3d':'#b6ff2e',fitSize(X,'K.O.!',130,W*.8),{hud:1,life:2.2,vy:0,rot:-.06});say('K. O.');
  burst(d.x,-(d.y+d.F.h*.5),50,['#ffd23d'],{k:'coin',spd:900,up:600,size:12});burst(d.x,-(d.y+d.F.h*.5),60,['#ff3df2','#b6ff2e','#2ec5ff','#fff'],{spd:1200,up:300,k:'star'});
  if(a.side===0){G.stats.best=Math.max(G.stats.best,a.maxCombo);if(a.taken===0){G.stats.flawless=true;setTimeout(()=>G&&popText(W/2,H*.5,'FLAWLESS!','#ffd23d',48,{hud:1,life:1.6,vy:0}),500)}}
- const line=pick(a.F.lines);setTimeout(()=>{if(G&&G.phase==='ko')popText(a.x,-(a.y+a.F.h+60),'"'+line+'"','#fff',30,{life:1.6,vy:-20})},900)}
+ const line=pick(a.F.lines);setTimeout(()=>{if(G&&G.phase==='ko'){bubble(a,line,1.8);say(line)}},900)}
+function bubble(f,txt,life=1.6){G.bubs=(G.bubs||[]).filter(b=>b.f!==f);G.bubs.push({f,txt,t:0,life})}
+function drawBubbles(c,dt){if(!G.bubs)return;for(const b of G.bubs){b.t+=dt;const f=b.f,s=1/VIEW.s,fs=Math.max(20,15*s);c.font=`900 ${fs}px system-ui,sans-serif`;const w=c.measureText(b.txt).width+fs*1.2,h=fs*1.9,x=clamp(f.x-w/2,VIEW.cx-W/VIEW.s/2+8*s,VIEW.cx+W/VIEW.s/2-w-8*s),y=-(f.y+f.F.h+40)-h,k=b.t<.12?easeOutBack(b.t/.12):1,a=b.t>b.life-.25?(b.life-b.t)/.25:1;c.save();c.globalAlpha=Math.max(0,a);c.translate(x+w/2,y+h);c.scale(k,k);c.translate(-(x+w/2),-(y+h));c.fillStyle='#fff';c.strokeStyle='#14002b';c.lineWidth=4*Math.min(2,s);c.beginPath();c.roundRect(x,y,w,h,h*.45);c.moveTo(f.x-12,y+h-2);c.lineTo(f.x,y+h+20);c.lineTo(f.x+12,y+h-2);c.fill();c.stroke();c.fillRect(f.x-10,y+h-6,20,6);c.fillStyle='#14002b';c.textAlign='center';c.textBaseline='middle';c.fillText(b.txt,x+w/2,y+h/2);c.restore()}G.bubs=G.bubs.filter(b=>b.t<b.life)}
 function timeUp(){G.phase='ko';G.koT=0;const p=G.p1,q=G.p2,w=p.hp/p.max>=q.hp/q.max?0:1;G.wins[w]++;G.winner=w;popText(W/2,H*.36,'TIME!','#ffd23d',110,{hud:1,life:2,vy:0});SFX.bell();if(w===0)G.stats.best=Math.max(G.stats.best,p.maxCombo)}
 function nextRound(){if(G.wins[0]>=2||G.wins[1]>=2)endMatch();else{G.round++;startRound()}}
 function endMatch(){G.mode='result';G.phase='end';musicStop();$('#pad').classList.remove('on');$('#pauseBtn').style.display='none';const won=G.wins[0]>=2,r=G.rung,opp=LADDER[r];$('#modal').dataset.lock='1';
  if(won){const coins=40+r*15+(G.stats.flawless?30:0);S.coins+=coins;S.wins++;if(S.rung<=r)S.rung=r+1;let un=null;if(!S.unlocked.includes(opp)){S.unlocked.push(opp);un=opp}S.bestCombo=Math.max(S.bestCombo,G.stats.best);save();SFX.fanfare();
-  modal(`<h1>${r===7?'LADDER CLEARED!':'VICTORY!'}</h1><p>${G.wins[0]} - ${G.wins[1]} vs ${FIGHTERS[opp].name}${G.stats.flawless?' | FLAWLESS +30':''}<br>Best combo: ${G.stats.best} hits</p><p style="font-size:22px;color:#ffd23d">+<span id="wonCoins">${coins}</span> COINS</p>${un?`<p style="color:#b6ff2e">NEW FIGHTER UNLOCKED!</p><img class="pf" src="${imgSrc(un)}" alt=""><p>${FIGHTERS[un].name}</p>`:''}
-  <div class="row">${r<7?'<button class="btn big" id="nextBtn">NEXT FIGHT</button>':''}</div><div class="row"><button class="btn gold" id="x2Btn">x2 COINS (AD)</button><button class="btn blue" id="shareBtn">SHARE</button><button class="btn grey" id="menuBtn">MENU</button></div>`);
+  modal(`<h1>${r===LAST?'LADDER CLEARED!':'VICTORY!'}</h1><p>${G.wins[0]} - ${G.wins[1]} vs ${FIGHTERS[opp].name}${G.stats.flawless?' | FLAWLESS +30':''}<br>Best combo: ${G.stats.best} hits</p><p style="font-size:22px;color:#ffd23d">+<span id="wonCoins">${coins}</span> COINS</p>${un?`<p style="color:#b6ff2e">NEW FIGHTER UNLOCKED!</p><img class="pf" src="${imgSrc(un)}" alt=""><p>${FIGHTERS[un].name}</p>`:''}
+  <div class="row">${r<LAST?'<button class="btn big" id="nextBtn">NEXT FIGHT</button>':''}</div><div class="row"><button class="btn gold" id="x2Btn">x2 COINS (AD)</button><button class="btn blue" id="shareBtn">SHARE</button><button class="btn grey" id="menuBtn">MENU</button></div>`);
   if($('#nextBtn'))$('#nextBtn').onclick=()=>startMatch(r+1);
   $('#x2Btn').onclick=()=>showAd(()=>{S.coins+=coins;save();setCoins();$('#wonCoins').textContent=coins*2;$('#x2Btn').disabled=true;SFX.coin();toast('Coins doubled!')});
   $('#shareBtn').onclick=()=>{quit();screen('home');shareCard()}}
@@ -319,6 +349,7 @@ $$('.tb').forEach(b=>{const k=b.dataset.k;b.addEventListener('pointerdown',e=>{e
 function updateGame(rdt){musicTick();if(G.freeze>0){G.freeze-=rdt;updJuice(0,rdt);if(G.freeze<=0)G.superF=null;return}
  let dt=rdt;if(J.stop>0){J.stop-=rdt;dt=0}else dt=rdt*J.slow;G.pt+=rdt;
  if(G.phase==='intro'){if(G.pt>.15&&!G.s1){G.s1=1;popText(W/2,H*.34,G.round===3?'FINAL ROUND':'ROUND '+G.round,'#fff',fitSize(X,'FINAL ROUND',84,W*.85),{hud:1,life:1.1,vy:0});SFX.bell();say(G.round===3?'Final round':'Round '+G.round)}
+  if(G.pt>.35&&!G.s3&&G.round===1){G.s3=1;bubble(G.p2,pick(G.p2.F.lines),1.4)}
   if(G.pt>1.25&&!G.s2){G.s2=1;popText(W/2,H*.34,'FIGHT!','#b6ff2e',fitSize(X,'FIGHT!',120,W*.8),{hud:1,life:.9,vy:0,rot:-.05});shake(.4);SFX.heavy();say('Fight!')}if(G.pt>1.5)G.phase='fight'}
  if(dt>0){G.time+=dt;const p=G.p1,q=G.p2;if(G.phase==='fight'||G.phase==='intro'){feedPlayer(p);aiUpdate(q,p)}else{clearEdges(p.ctl);p.ctl.l=p.ctl.r=p.ctl.blk=0;q.ctl.l=q.ctl.r=q.ctl.blk=0;clearEdges(q.ctl)}
   updF(p,q,dt);updF(q,p,dt);pushApart(p,q);if(G.phase==='fight'){hitCheck(p,q);hitCheck(q,p)}updProjs(dt);clearEdges(p.ctl);clearEdges(q.ctl);clearEdges(PEND);
@@ -356,12 +387,17 @@ function drawFighter(c,f){const pose=poseOf(f),T=G.time;
  if(f.charging||(f.st==='attack'&&f.side===1&&f.mv&&f.mv.charge&&f.mvT<f.mv.st))drawSprite(c,f,P2,x,y,f.dir,rot,sx,sy,.35+.25*Math.sin(T*40),'r');
  if(f.st==='block'||f.st==='blockstun'){const cx=f.x+f.dir*70*f.sc,cy=-(f.y+f.F.h*.5);c.save();c.strokeStyle='#2ec5ff';c.lineWidth=12;c.globalAlpha=f.st==='blockstun'?.95:.6;c.shadowColor='#2ec5ff';c.shadowBlur=20;c.beginPath();c.arc(f.x,cy,f.F.h*.55,f.dir>0?-1:Math.PI-1,f.dir>0?1:Math.PI+1);c.stroke();c.restore()}
  if(f.st==='parried')for(let i=0;i<3;i++){const a=T*6+i*2.1;c.fillStyle='#ffd23d';c.save();c.translate(f.x+Math.cos(a)*50,-(f.y+f.F.h+10)+Math.sin(a)*12);c.beginPath();for(let k=0;k<10;k++){const r=k%2?6:15,an=k*Math.PI/5;c.lineTo(Math.cos(an)*r,Math.sin(an)*r)}c.fill();c.restore()}}
-function drawProj(c,p){c.save();c.translate(p.x,-p.y);c.rotate(p.rot*.3);const r=p.r;
+function drawProj(c,p){if(p.kind==='clone'){const d=sgn(p.vx);drawSprite(c,p.owner,'attack',p.x,p.y-p.owner.F.h*.5,d,0,1,1,.6);drawSprite(c,p.owner,'attack',p.x,p.y-p.owner.F.h*.5,d,0,1,1,.35,'w');if(Math.random()<.5)burst(p.x,-p.y,1,['#bfe9ff'],{spd:80,g:-300,k:'circle',size:10,life:.6});return}c.save();c.translate(p.x,-p.y);c.rotate(p.rot*.3);const r=p.r;
  if(p.kind==='case'){c.fillStyle='#6b3b1c';c.strokeStyle='#1a0629';c.lineWidth=5;c.beginPath();c.roundRect(-r,-r*.7,r*2,r*1.4,8);c.fill();c.stroke();c.fillStyle='#ffcc00';c.fillRect(-6,-r*.25,12,10);c.beginPath();c.arc(0,-r*.7,r*.35,Math.PI,0);c.stroke()}
  else if(p.kind==='toast'){c.fillStyle='#e8b062';c.strokeStyle='#8a4a14';c.lineWidth=7;c.beginPath();c.roundRect(-r,-r,r*2,r*2,r*.5);c.fill();c.stroke();c.fillStyle='#f8d79a';c.fillRect(-r*.6,-r*.6,r*1.2,r*1.2)}
+ else if(p.kind==='note'){c.rotate(-p.rot*.3+Math.sin(p.life*10)*.3);c.fillStyle='#ffd23d';c.strokeStyle='#14002b';c.lineWidth=5;c.beginPath();c.ellipse(-6,10,15,11,-.4,0,7);c.fill();c.stroke();c.fillRect(6,-28,6,38);c.strokeRect(6,-28,6,38);c.beginPath();c.moveTo(12,-28);c.quadraticCurveTo(30,-20,26,-4);c.stroke()}
+ else if(p.kind==='heart'){c.rotate(-p.rot*.3);const k=r/30*(1+.12*Math.sin(p.life*20));c.scale(k,k);c.fillStyle='#ff4fb8';c.strokeStyle='#14002b';c.lineWidth=5;c.beginPath();c.moveTo(0,12);c.bezierCurveTo(-34,-10,-16,-34,0,-16);c.bezierCurveTo(16,-34,34,-10,0,12);c.fill();c.stroke();c.fillStyle='#fff8';c.beginPath();c.arc(-10,-14,5,0,7);c.fill()}
+ else if(p.kind==='bubble'){c.fillStyle='#bfe9ff55';c.strokeStyle='#fff';c.lineWidth=4;c.beginPath();c.arc(0,0,r,0,7);c.fill();c.stroke()}
  else{const g=c.createRadialGradient(0,0,4,0,0,r*1.4);g.addColorStop(0,'#fff');g.addColorStop(.4,'#ff3df2');g.addColorStop(1,'transparent');c.fillStyle=g;c.beginPath();c.arc(0,0,r*1.4,0,7);c.fill()}
  c.restore();if(Math.random()<.5)burst(p.x,-p.y,1,[p.kind==='orb'?'#ff3df2':'#fff8'],{spd:60,g:0,k:'circle',size:6,life:.5})}
 function drawSpecialFX(c,f){if(f.st!=='special')return;const t=f.t,T=G.time;
+ if(f.sp.type==='tsunami'&&f.spS.wx!=null){const x=f.spS.wx,d=f.dir;c.save();c.translate(x,0);c.scale(d,1);const g=c.createLinearGradient(-260,0,60,0);g.addColorStop(0,'#4aa3ff00');g.addColorStop(.6,'#4aa3ffcc');g.addColorStop(1,'#e6f7ff');c.fillStyle=g;c.beginPath();c.moveTo(-300,0);c.quadraticCurveTo(-120,-60,-20,-230-Math.sin(T*20)*15);c.quadraticCurveTo(70,-250,90,-170);c.quadraticCurveTo(40,-200,30,-120);c.quadraticCurveTo(40,-40,80,0);c.closePath();c.fill();c.strokeStyle='#fff';c.lineWidth=8;c.stroke();c.restore()}
+ if(f.sp.type==='flush'&&t<.6){c.save();c.translate(f.x,-10);c.scale(1,.28);for(let i=0;i<3;i++){c.strokeStyle=['#9fe6ff','#4aa3ff','#fff'][i];c.lineWidth=14;c.globalAlpha=.7;c.beginPath();c.arc(0,0,140+i*70,T*8+i,T*8+i+4);c.stroke()}c.restore()}
  if(f.sp.type==='beam'&&t>.25&&t<1.05){const x0=f.x+f.dir*40,len=1500*f.dir,h=150;const g=c.createLinearGradient(0,-h,0,0);g.addColorStop(0,'#ff3df200');g.addColorStop(.3,'#ff3df2');g.addColorStop(.5,'#fff');g.addColorStop(.7,'#ff3df2');g.addColorStop(1,'#ff3df200');c.fillStyle=g;c.globalAlpha=.85+.15*Math.sin(T*60);c.fillRect(Math.min(x0,x0+len),-h-rand(0,10),Math.abs(len),h+10);c.globalAlpha=1}
  if(f.sp.type==='aura'&&t<.9){c.save();c.translate(f.x,-(f.y+f.F.h*.55));c.rotate(T*8);for(let i=0;i<12;i++){c.rotate(Math.PI/6);c.fillStyle=i%2?'#ff3df255':'#2ec5ff55';c.beginPath();c.moveTo(0,0);c.lineTo(-24,-240);c.lineTo(24,-240);c.fill()}c.restore()}}
 function drawHud(c){c.setTransform(DPR,0,0,DPR,0,0);const top=8,bw=Math.min(W*.36,430),p=G.p1,q=G.p2;
@@ -381,7 +417,7 @@ function render(){const c=X;camera();const {s,cx,fy}=VIEW,tr=J.trauma*J.trauma,s
  c.setTransform(DPR*s,0,0,DPR*s,DPR*(W/2-cx*s+shx),DPR*(fy+shy));
  c.fillStyle='#ff3df233';c.fillRect(WL-60,-650,8,650);c.fillRect(WR+52,-650,8,650);
  const order=[G.p2,G.p1];if(G.p1.st==='attack'||G.p1.st==='special')order.reverse();
- for(const f of order)drawSpecialFX(c,f);for(const f of order)drawFighter(c,f);for(const p of G.projs)drawProj(c,p);drawParts(c);drawTexts(c,false);
+ for(const f of order)drawSpecialFX(c,f);for(const f of order)drawFighter(c,f);for(const p of G.projs)drawProj(c,p);drawParts(c);drawTexts(c,false);drawBubbles(c,1/60);
  drawHud(c)}
 
 // ---------- SHARE CARD ----------
@@ -391,7 +427,7 @@ function makeCard(){const cv2=document.createElement('canvas');cv2.width=1080;cv
  out('BRAINROT',540,130,'#ff3df2',120);out('BATTLE',540,235,'#b6ff2e',100);
  const img=SPR[id]&&SPR[id].attack,m=META[id]&&META[id].attack;if(img){const ih=700,iw=ih*m.w/m.h;c.drawImage(img,540-iw/2,1000-ih,iw,ih)}
  const nm=fname(id,S.donor);let fs=80;c.font=FONT(fs);while(c.measureText(nm).width>980)fs-=4;out(nm,540,1080,'#ffd23d',fs,16);
- out(S.rung>=8?'CLEARED THE LADDER':`LADDER ${S.rung}/8 | BEST COMBO ${S.bestCombo}`,540,1160,'#fff',44,10);
+ out(S.rung>LAST?'CLEARED THE LADDER':`LADDER ${S.rung}/${LADDER.length} | BEST COMBO ${S.bestCombo}`,540,1160,'#fff',44,10);
  c.font='bold 34px system-ui,sans-serif';c.fillStyle='#b6ff2e';c.fillText('Fight me: '+SITE_URL.replace('https://',''),540,1300);return cv2}
 const shareText=()=>`I'm brawling as ${fname(S.pick,S.donor)} in Brainrot Battle${S.bestCombo?` (best combo: ${S.bestCombo} hits)`:''}. Beat that: ${SITE_URL}`;
 let lastCard=null;

diff --git a/index.html b/index.html
@@ -38,6 +38,8 @@ h2{margin:14px 0 6px;font-size:18px;color:#b6ff2e;text-shadow:2px 2px 0 #000}
 .rung.lock .pic img{filter:brightness(0) opacity(.7)}
 .rung.done::after{content:"KO";position:absolute;top:2px;right:2px;background:#b6ff2e;color:#000;font-size:10px;padding:1px 4px;border-radius:5px;border:2px solid #000}
 .grid{display:grid;grid-template-columns:repeat(auto-fill,minmax(96px,1fr));gap:8px}
+#grid{grid-template-columns:repeat(auto-fill,minmax(84px,1fr))}
+@media(max-width:520px){#grid{grid-template-columns:repeat(5,1fr);gap:5px}#grid .fc{padding:3px 2px 4px;border-radius:10px;border-width:2px}#grid .fc .nm{font-size:7.5px;min-height:17px}#grid .fc .tag{font-size:6px;padding:1px 3px}}
 .fc{position:relative;background:linear-gradient(#3b1474,#22073f);border:3px solid #000;border-radius:16px;padding:6px 4px 6px;text-align:center;box-shadow:0 4px 0 #000;cursor:pointer}
 .fc img{width:100%;aspect-ratio:1;object-fit:contain;display:block;pointer-events:none}
 .fc .nm{font-size:11px;font-family:system-ui;font-weight:900;line-height:1.1;min-height:24px}

diff --git a/README.md b/README.md
@@ -9,7 +9,9 @@ Live: https://brainrot-battle-eight.vercel.app
 - Mobile: drag the left side to move (flick up = jump, double-flick = dash); PUNCH / HEAVY / BLOCK / SPECIAL buttons on the right. Multitouch.
 
 ## Game
-- Best of 3, 60s rounds. Ladder of 8 opponents (difficulty ramps) ending with The Omega Brainrot.
+- Best of 3, 60s rounds. Ladder of 14 opponents (difficulty ramps) ending with The Omega Brainrot.
+- 14 fighters: Sharkopher, Buff Cappuccino, CEO Duck, Toaster Bro, Disco Cactus, Banana Bandit, Broccoli Beefcake, Sir Flushalot (armored tank), Sigma Pigeon (speedster), Rizz Frog (zoner), Spud Swole (grappler, command grab), Sir Snoozles (bathtub trickster), Sobbing Onion (rushdown), The Omega Brainrot (boss).
+- Unlocks: start with 3; beat a fighter on the ladder to unlock it, or unlock any for 250 coins. Boss: clear the ladder or premium.
 - Juggles, ground bounce, wall bounce, combo scaling, chip damage, projectiles that can be swatted, super-flash specials.
 - Fusion Lab (light): your fighter keeps its body and borrows another fighter's special.
 - Stubs: `showAd()` (continue / double coins) and `purchase()` (premium fighter) in game.js.
